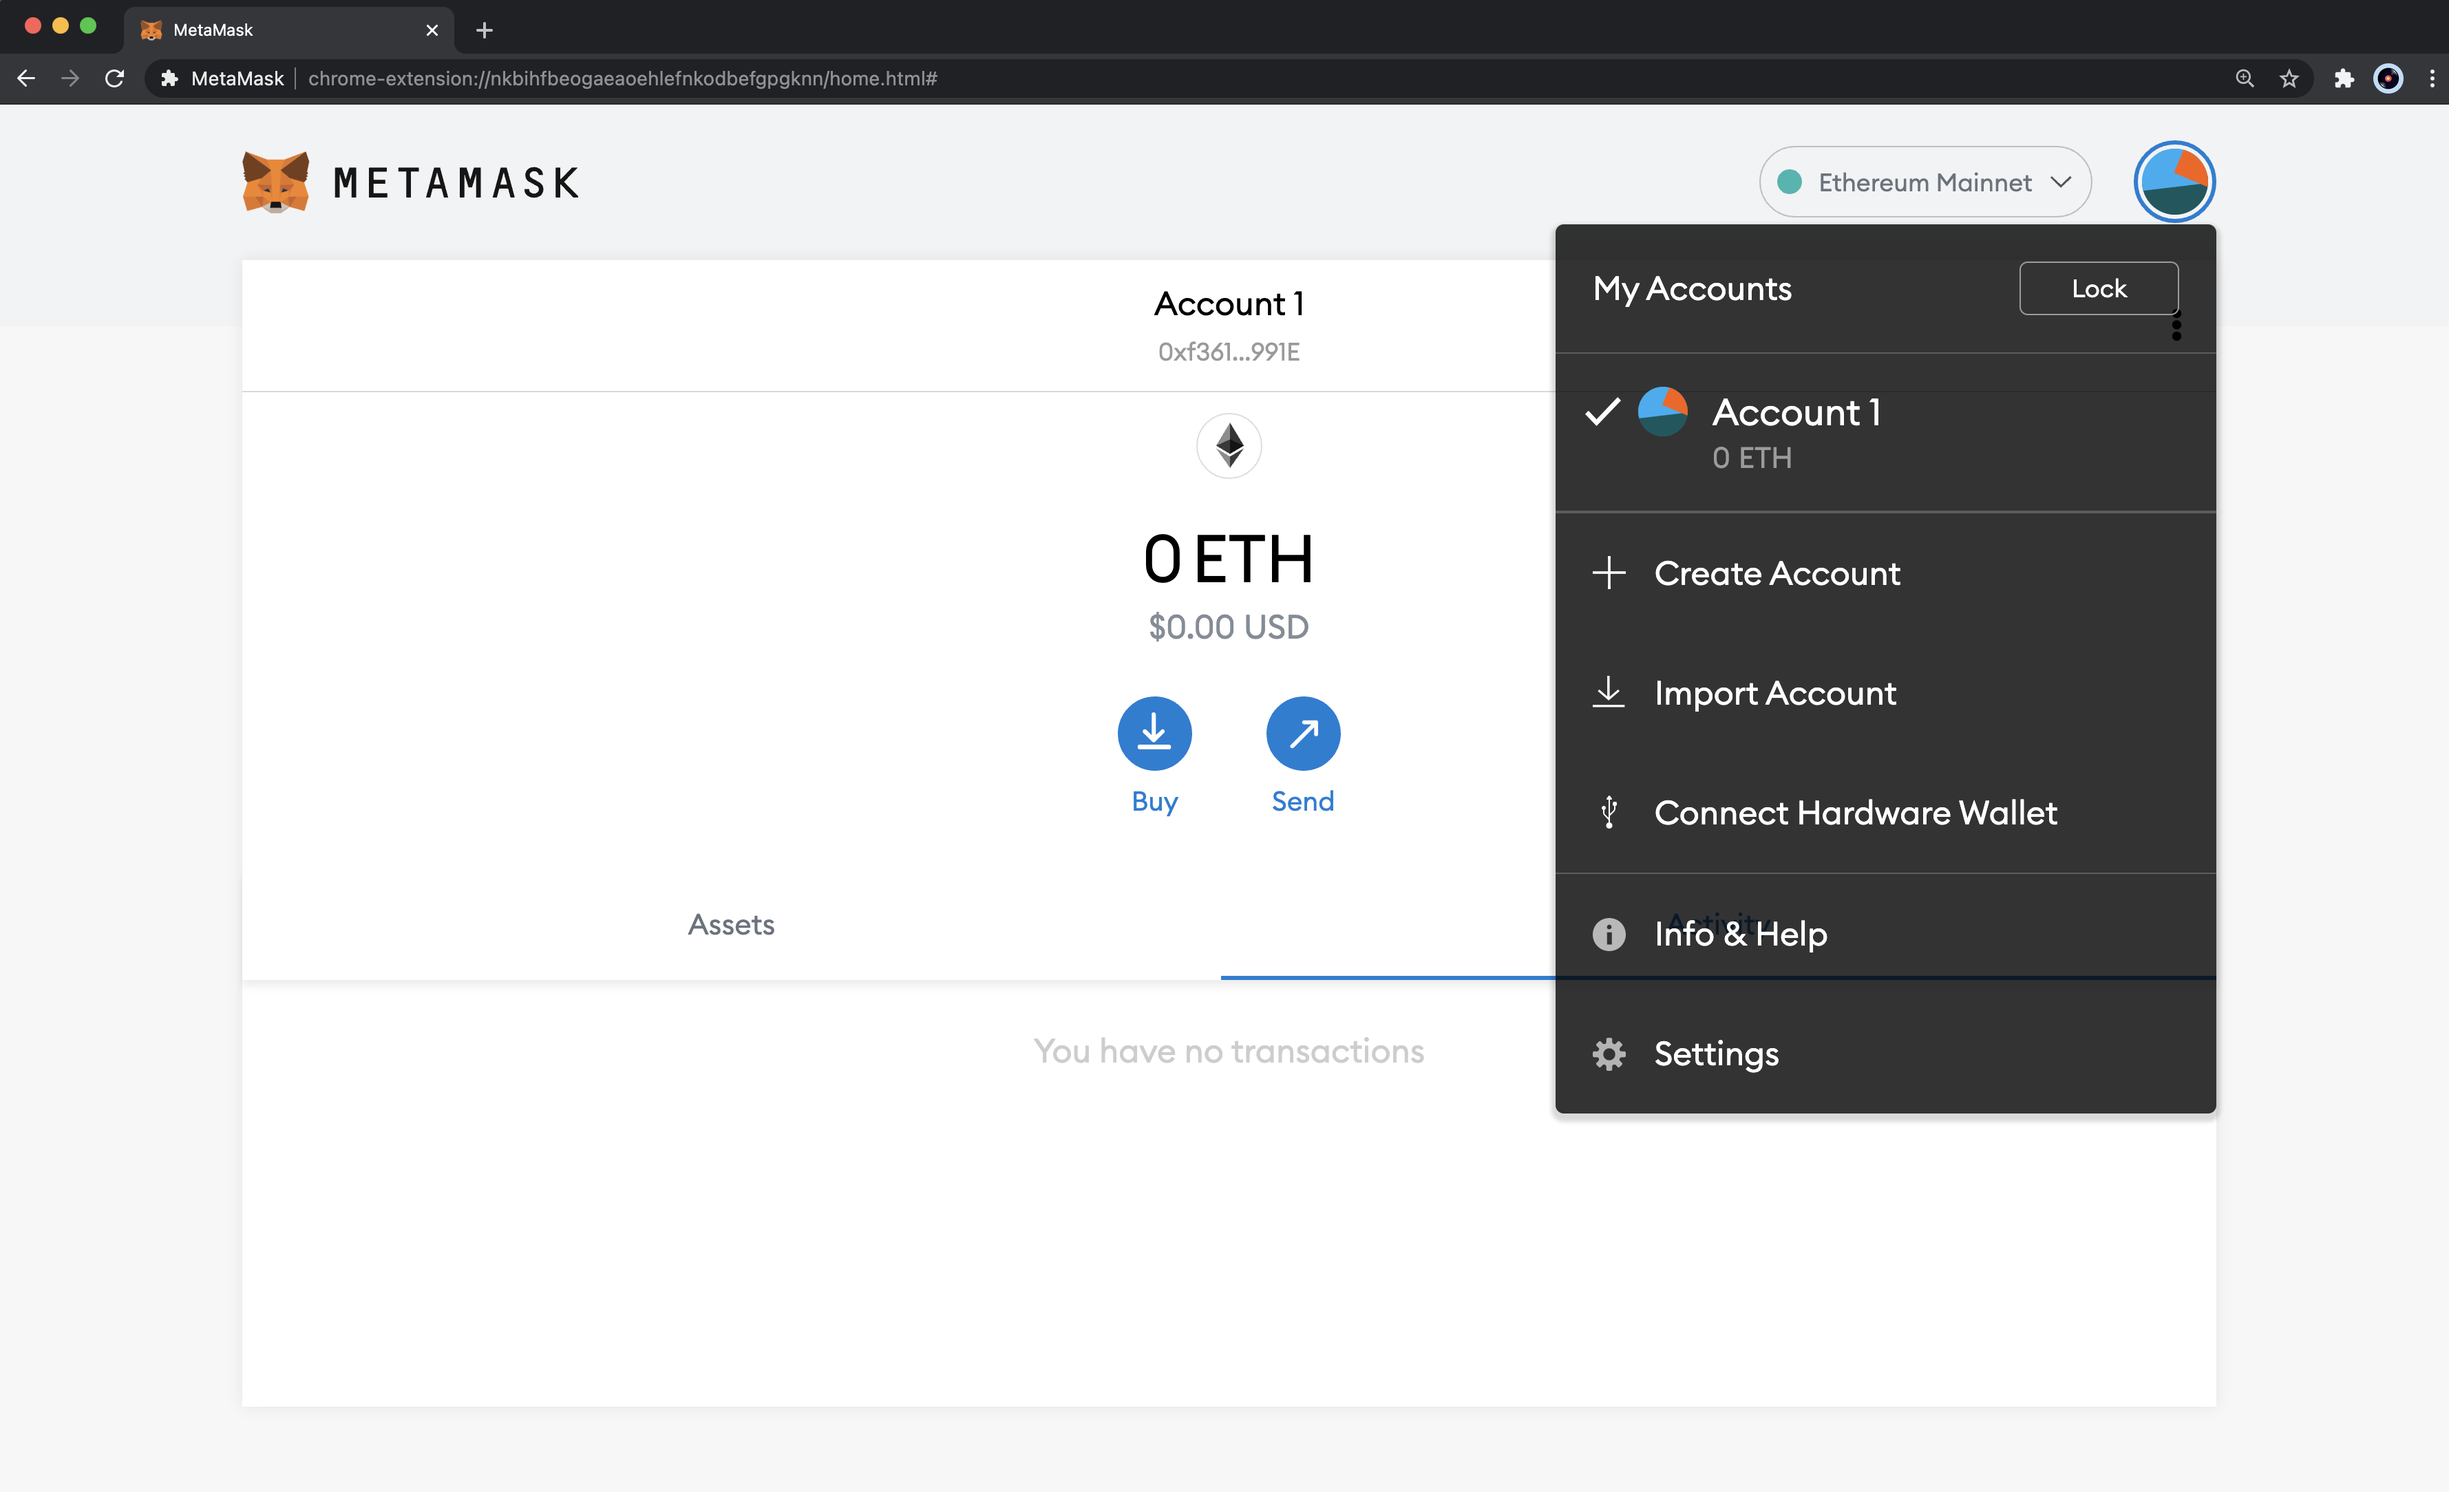
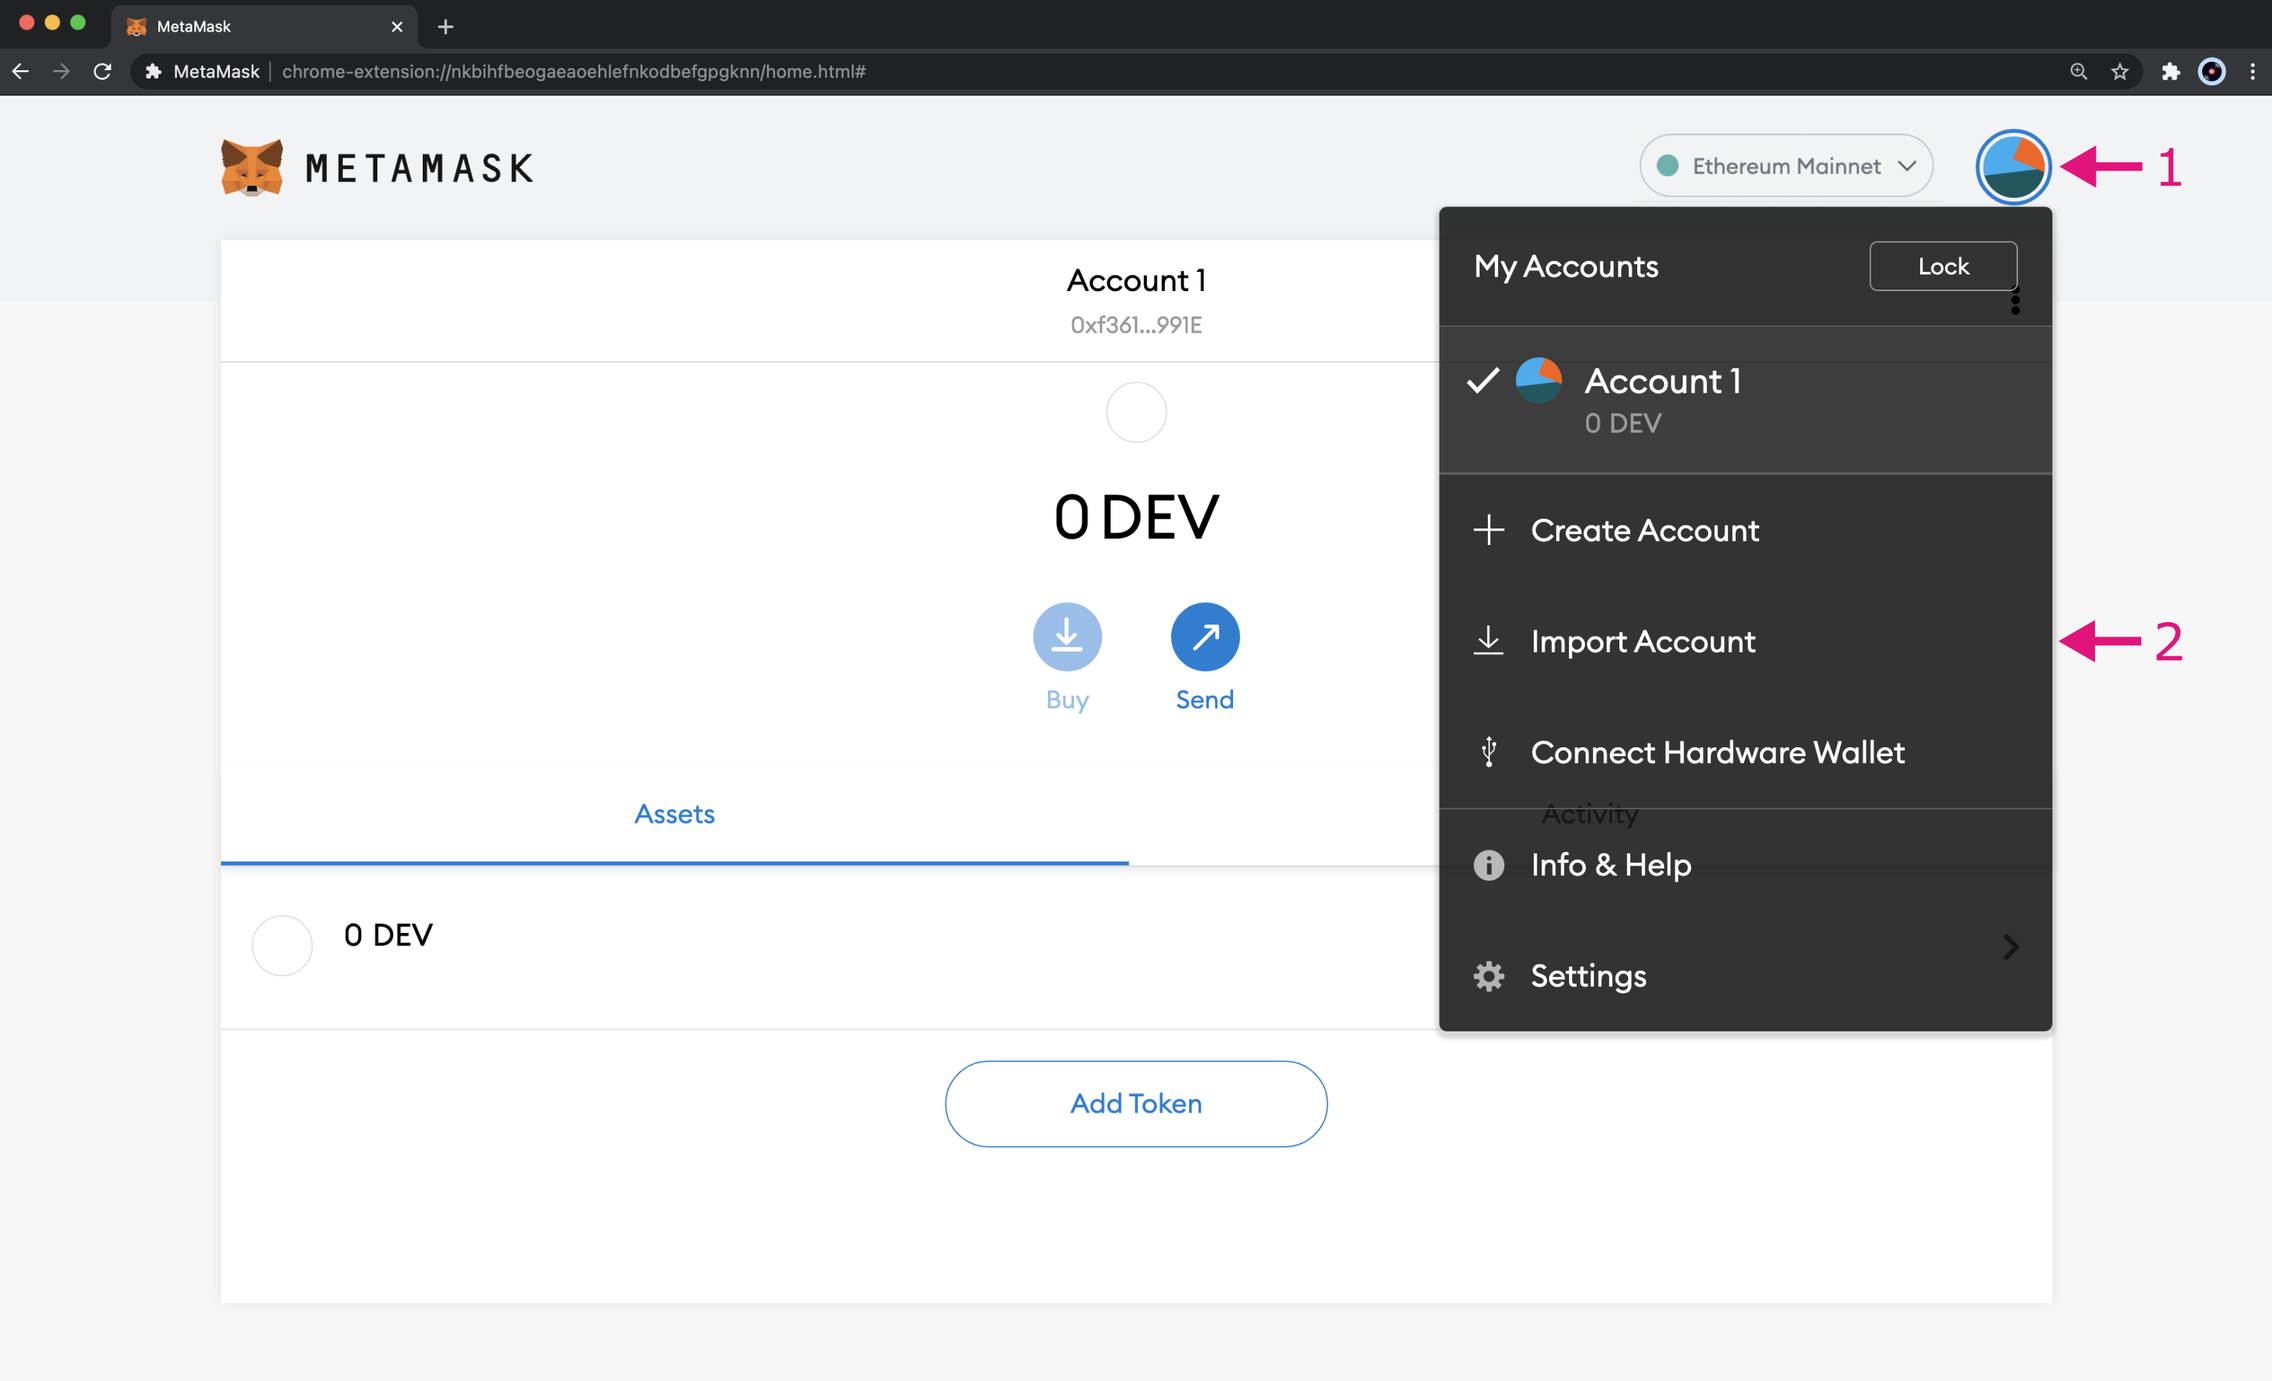
minor updates to the metamask page

diff --git a/tokens/connect/metamask.md b/tokens/connect/metamask.md
@@ -12,7 +12,7 @@ description: This guide walks you through how to connect MetaMask, an browser-ba
 
 Developers can leverage Moonbeam's Ethereum compatibility features to integrate tools, such as [MetaMask](https://metamask.io/), into their DApps. By doing so, they can use the injected library MetaMask provides to interact with the blockchain.
 
-Currently, MetaMask can be configured to connect to a few networks: a Moonbeam development node, the Moonbase Alpha TestNet, and Moonriver.
+Currently, MetaMask can be configured to connect to a few networks: Moonbeam, Moonriver, the Moonbase Alpha TestNet, and a Moonbeam development node.
 
 If you already have MetaMask installed, you can easily connect MetaMask to the network of your choice:
 
@@ -27,7 +27,7 @@ If you already have MetaMask installed, you can easily connect MetaMask to the n
 !!! note
     MetaMask will popup asking for permission to add a a custom network. Once you approve permissions, MetaMask will switch your current network.
 
-Learn [how to integrate a Connect MetaMask button](/builders/interact/metamask-dapp/) into your DApp, so that users can connect to Moonbase Alpha with a simple click of a button.
+Learn [how to integrate a Connect MetaMask button](/builders/interact/metamask-dapp/) into your DApp, so that users can connect to Moonbase Alpha with a simple click of a button. The guide can also be adapted for the other Moonbeam-based networks.
 
 ## Install the MetaMask Extension {: #install-the-metamask-extension } 
 
@@ -65,13 +65,9 @@ You should end up with an imported **Account 2** that looks like this:
 
 ## Connect MetaMask to Moonbeam {: #connect-metamask-to-moonbeam } 
 
-Once you have [MetaMask](https://metamask.io/) installed and have created or imported an account, you can connect it to Moonbeam by clicking on the top right logo and opening the settings.
+Once you have [MetaMask](https://metamask.io/) installed and have created or imported an account, you can connect it to Moonbeam by clicking on the network dropdown and selecting **Add Network**.
 
-![MetaMask3](/images/tokens/connect/metamask/metamask-6.png)
-
-Next, navigate to the Networks tab and click on the **Add Network** button.
-
-![MetaMask4](/images/tokens/connect/metamask/metamask-7.png)
+![MetaMask3](/images/tokens/connect/metamask/metamask-6-new.png)
 
 Here you can configure MetaMask for the following networks:
 
